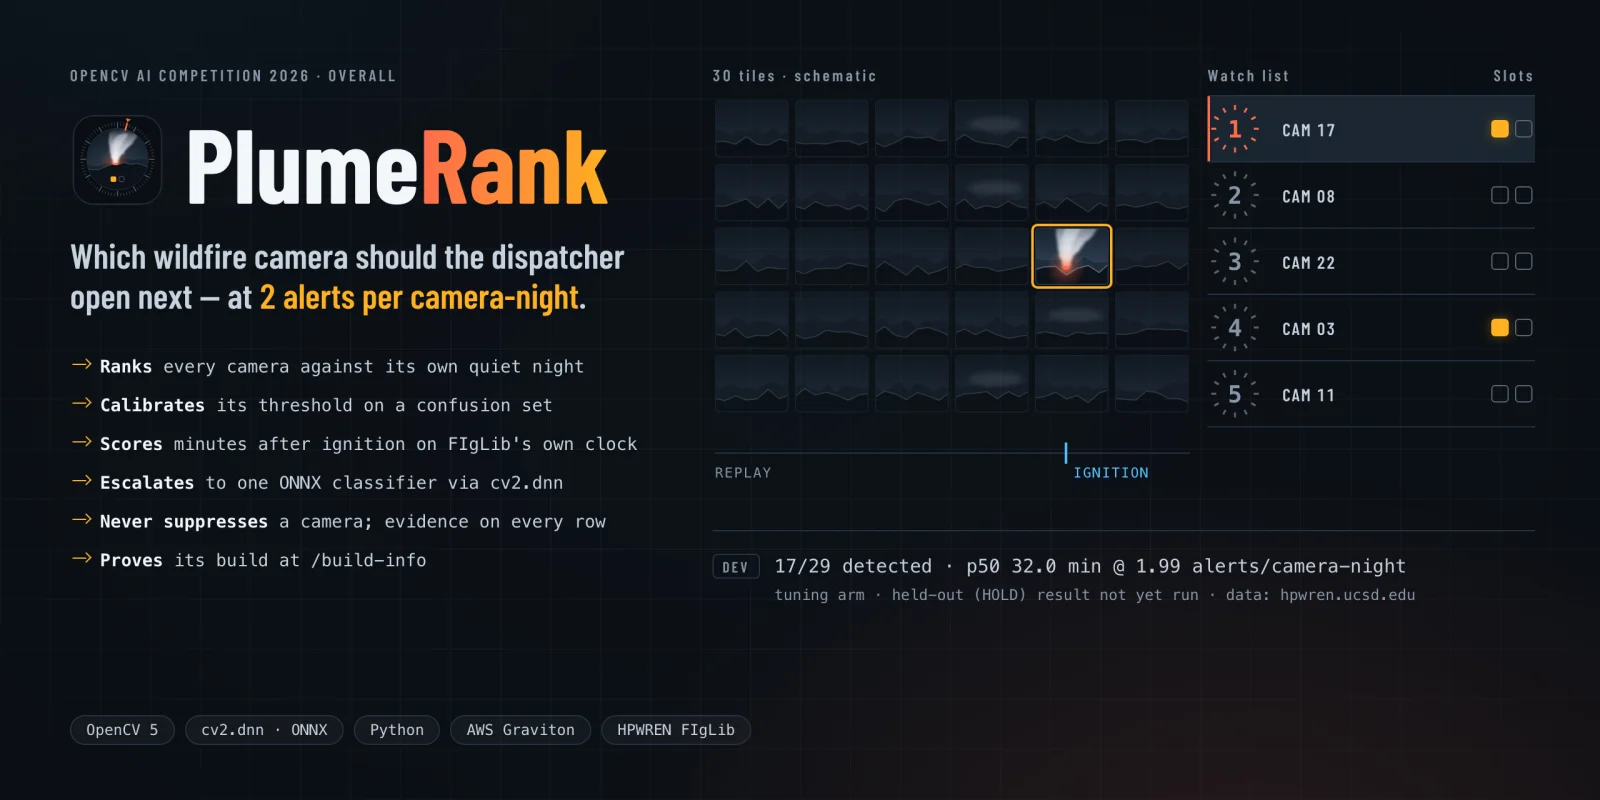
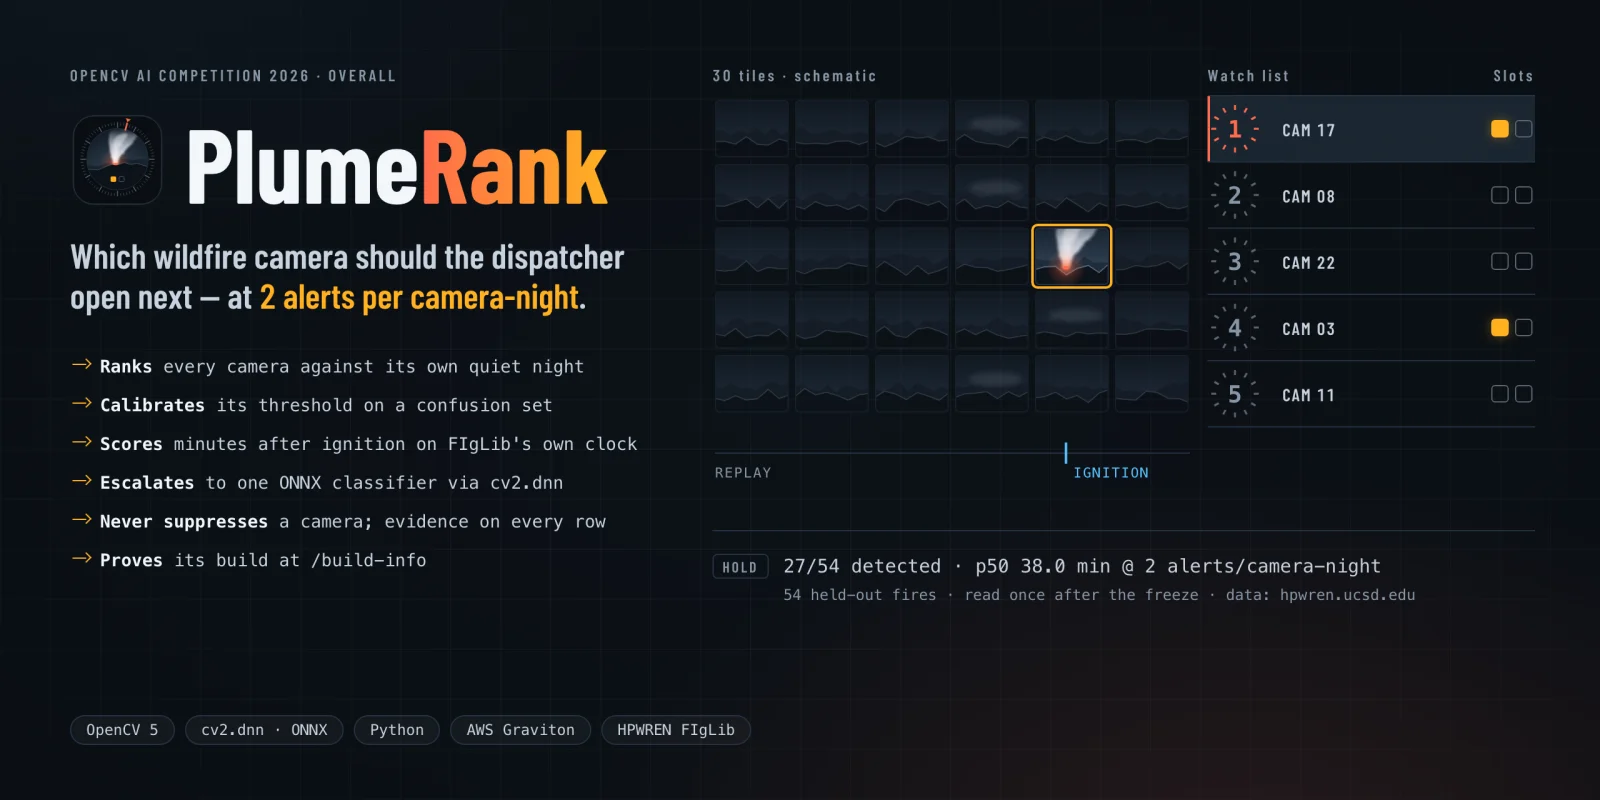
fix(site): the README hero and social card show the held-out result
Both images still read 'DEV 17/29 · held-out result not yet run'. Re-rendered
from their generators with HOLD 27/54, p50 38.0; og:image cache-buster v=3 so
link previews refetch. Removed three unreferenced screenshots, one of which was
/results before the held-out run. README explains camera-night vs camera-window.

Changed region(s): [[0.4688, 0.6875, 0.875, 0.75]]

diff --git a/docs/index.html b/docs/index.html
@@ -13,14 +13,14 @@
 <meta property="og:title" content="PlumeRank — the camera wall finally points at the smoke">
 <meta property="og:description" content="Ranks wildfire cameras against their own last 15 minutes, at 2 alerts per camera-window. OpenCV 5 on AWS Graviton.">
 <meta property="og:url" content="https://plumerank.edycu.dev/">
-<meta property="og:image" content="https://plumerank.edycu.dev/assets/og-image.png?v=2">
+<meta property="og:image" content="https://plumerank.edycu.dev/assets/og-image.png?v=3">
 <meta property="og:image:width" content="1200">
 <meta property="og:image:height" content="630">
 <meta property="og:image:alt" content="PlumeRank — a smoke plume on a ridge inside an azimuth ring, with one of two budget slots spent">
 <meta name="twitter:card" content="summary_large_image">
 <meta name="twitter:title" content="PlumeRank — the camera wall finally points at the smoke">
 <meta name="twitter:description" content="Ranks wildfire cameras against their own last 15 minutes, at 2 alerts per camera-window. OpenCV 5 on AWS Graviton.">
-<meta name="twitter:image" content="https://plumerank.edycu.dev/assets/og-image.png?v=2">
+<meta name="twitter:image" content="https://plumerank.edycu.dev/assets/og-image.png?v=3">
 <link rel="preconnect" href="https://fonts.googleapis.com">
 <link rel="preconnect" href="https://fonts.gstatic.com" crossorigin>
 <link href="https://fonts.googleapis.com/css2?family=Barlow+Condensed:wght@500;600;700;800&family=Barlow:ital,wght@0,400;0,500;0,600;1,400&family=IBM+Plex+Mono:wght@400;500;600&display=swap" rel="stylesheet">

diff --git a/docs/pitch/index.html b/docs/pitch/index.html
@@ -12,7 +12,7 @@
 <meta property="og:title" content="PlumeRank — pitch deck">
 <meta property="og:description" content="Ranking a wildfire-camera wall at 2 alerts per camera-window. OpenCV 5 on AWS Graviton.">
 <meta property="og:url" content="https://plumerank.edycu.dev/pitch/">
-<meta property="og:image" content="https://plumerank.edycu.dev/assets/og-image.png?v=2">
+<meta property="og:image" content="https://plumerank.edycu.dev/assets/og-image.png?v=3">
 <meta name="twitter:card" content="summary_large_image">
 <link rel="preconnect" href="https://fonts.googleapis.com">
 <link rel="preconnect" href="https://fonts.gstatic.com" crossorigin>

diff --git a/web/app/layout.tsx b/web/app/layout.tsx
@@ -40,7 +40,7 @@ export const metadata: Metadata = {
     description: DESCRIPTION,
     url: SITE_URL,
     siteName: "PlumeRank",
-    images: [{ url: "/og-image.png?v=2", width: 1200, height: 630, alt: TITLE }],
+    images: [{ url: "/og-image.png?v=3", width: 1200, height: 630, alt: TITLE }],
     locale: "en_US",
     type: "website",
   },
@@ -52,7 +52,7 @@ export const metadata: Metadata = {
     // fabricated handle (a string here does not have to resolve to an account, but it
     // must be honest about what it names).
     creator: AUTHOR,
-    images: ["/og-image.png?v=2"],
+    images: ["/og-image.png?v=3"],
   },
 };
 

diff --git a/README.md b/README.md
@@ -1,7 +1,7 @@
 <div align="center">
   <h1>PlumeRank 🔥📷</h1>
   <p><em>A wall of wildfire cameras. One dispatcher. Which one gets opened next?</em></p>
-  <img src="docs/assets/readme-hero.webp" alt="PlumeRank — ranks wildfire cameras against their own quiet night at 2 alerts per camera-window; schematic wall and watch list, with the development-set result 17/29 detected, p50 32.0 min" width="100%">
+  <img src="docs/assets/readme-hero.webp" alt="PlumeRank — ranks wildfire cameras against their own quiet night at 2 alerts per camera-window; schematic wall and watch list, with the held-out result 27/54 detected, p50 38.0 min" width="100%">
 
   <br/>
 
@@ -57,7 +57,8 @@ minute of footage), a ranked shortlist of which cameras a human should look at n
 cropped evidence tile — calibrated to a fixed budget of **2 alerts per camera-night**. It never
 suppresses a camera and never dispatches an engine. It reorders human attention.
 
-> **The unit.** A *camera-night* in this project is one evaluation window: **81 minutes of
+> **The unit.** A *camera-night* in this project — called a *camera-window* on the landing page and
+> in the description, to stop it reading as a 12-hour night — is one evaluation window: **81 minutes of
 > footage on one camera**, the length of a FIgLib sequence (`plumerank/constants.py`). So the
 > budget is 2 alerts per camera per 81-minute window — about 18 per camera over a 12-hour
 > shift if run continuously, not 2 per night. The name is the code's; the windows are daytime.
